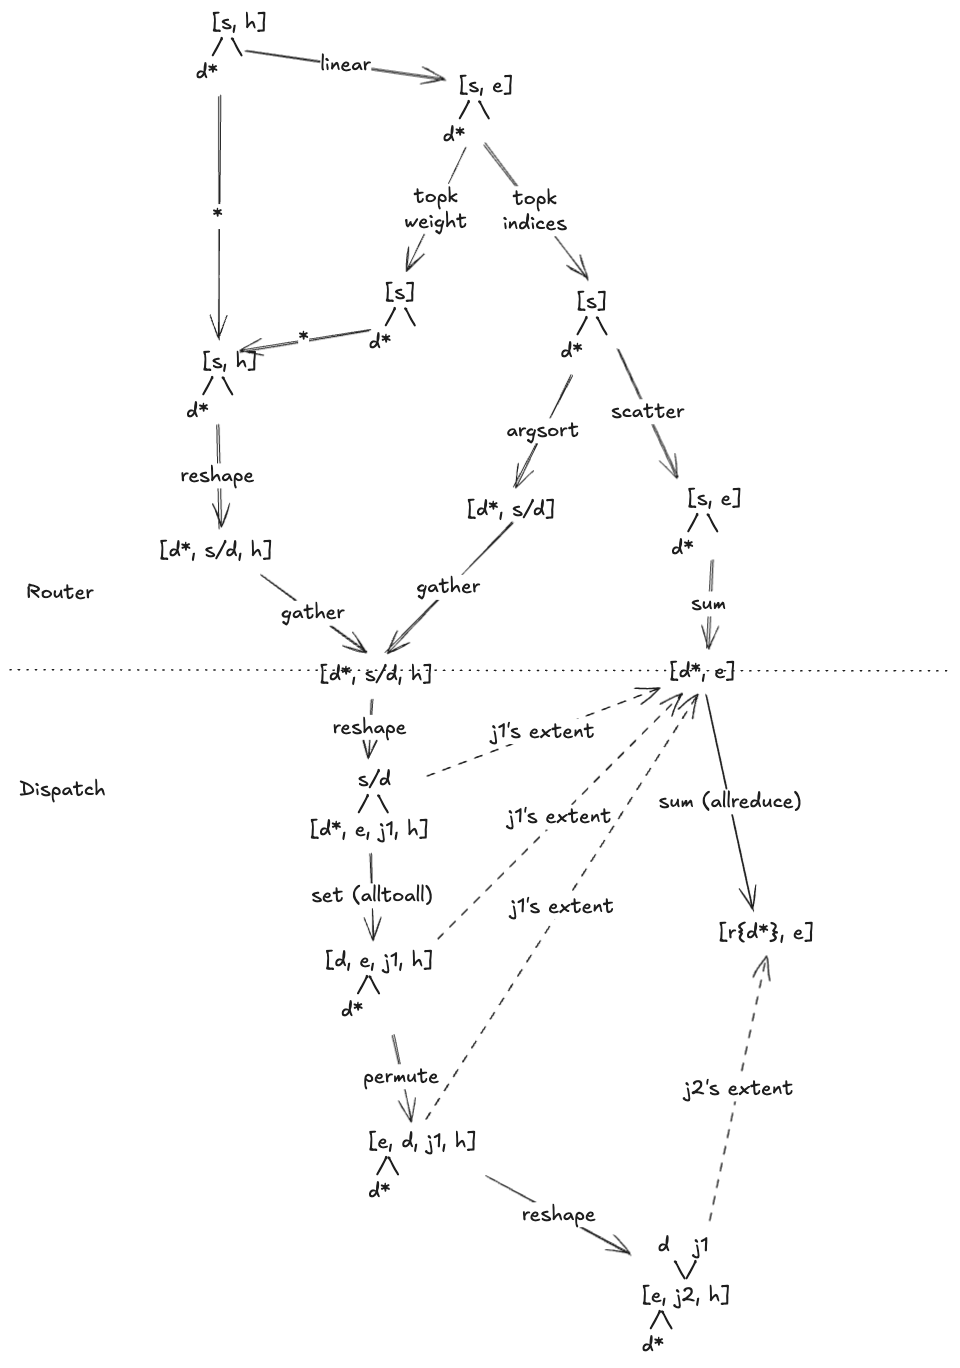
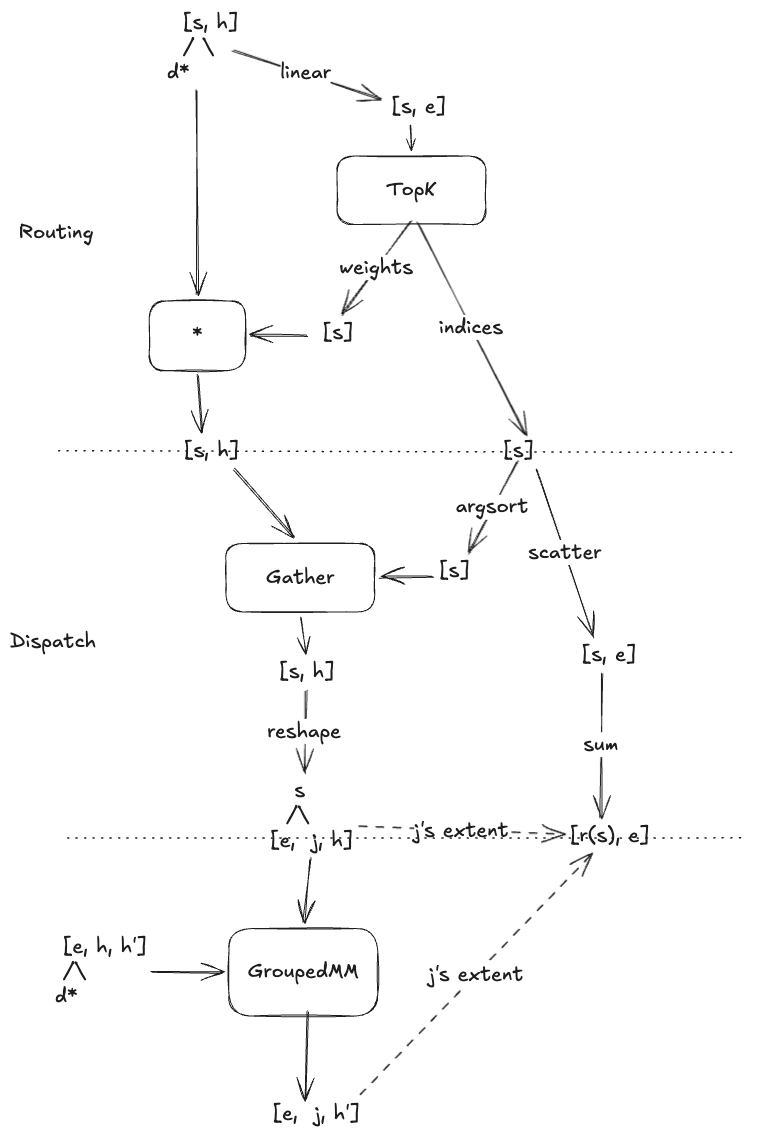
docs: expand multi-GPU DTensor limitations (#6043)
## Summary
- expand the multi-GPU reading doc with a detailed section on
overlapping communication with GEMM
- reorganize and extend the DTensor limitations discussion, including
non-outermost and non-uniform sharding
- add the non-outermost sharding and overlap-iterations figures, and
update the expert-parallelism figure

## Testing
- not run (docs only)

diff --git a/doc/reading/multigpu.md b/doc/reading/multigpu.md
@@ -107,6 +107,12 @@ that schedule across multiple GPUs. This automatically handles sharding and
 communication and therefore removes the need for users to explicitly
 orchestrate communications such as `torch.distributed.all_reduce`.
 
+Note that `DTensor`s are used only as annotations. Internals such as sharding
+propagation and decomposition, which are described later in this document, do
+not use `DTensor`s because they [cannot yet
+represent]((#dtensor-representation-limitations) some shardings that an SPMD
+program needs in practice.
+
 By default, nvFuser strives to generate an efficient schedule automatically.
 For performance-critical workloads, however, users can extend `define_fusion`
 with a (partial) schedule that nvFuser must honor. These are specified through
@@ -212,6 +218,11 @@ and inter-GPU reduction. After decomposition, the fusion IR becomes:
                                        |
                                   [t, h, r{d}]
 ```
+
+Note that the output of the local linear is a 3D tensor, ignoring the reduction
+dimension, which is present only for convenience. The extra `d` dimension comes
+from the `rfactor` operation, first introduced by Halide. It indicates that
+each GPU holds different partial results until they are all-reduced.
 
 This fusion IR then goes through segmentation, (intra-GPU) scheduling, device
 lowering, and host IR lowering. Eventually, the `linear`s and the `gelu` become
@@ -338,24 +349,25 @@ This fusion IR then goes through the rest of the nvFuser stack. The `set`
 becomes a call to `ncclAllGather` and the `sum` becomes a call to
 `ncclReduceScatter`.
 
-### Overlap Communication with GEMM via Decomposition
+### Overlapping Communication with GEMM
 
 [This technique](https://dl.acm.org/doi/10.1145/3567955.3567959) is orthogonal
 and can be applied to different types of parallelism (e.g., sequence, tensor,
 and context parallelism) to cut down latency. Instead of running communication
 operations (e.g., Allgather, ReduceScatter) and computation operations (e.g.,
-GEMM) one after another, it breaks them into smaller pieces and overlaps
+GEMM) one after another, it decomposes them into smaller pieces and overlaps
 communication with computation to reduce wall time.
 
-<img src="multigpu/allgather_matmul_overlap.png" alt="Figure 1" width="600">
+<img src="multigpu/allgather_matmul_overlap.png" alt="Overlap allgather with GEMM" width="600">
 
-> **Figure 1.** Overlap allgather with GEMM[^1]
+> Overlap allgather with GEMM[^1]
 
 [^1]: Wang et al., *Overlap Communication with Dependent Computation via
     Decomposition in Large Deep Learning Models*, ASPLOS 2023.
 https://dl.acm.org/doi/pdf/10.1145/3567955.3567959
 
-There are two types of decomposition:
+There are two types of decomposition, both representable in fusion IR through
+`IterDomain`:
 * Collective-based. A large communication collective is decomposed into collectives of the same nature.
 * Ring-based. A large communication collective is decomposed into circular-shift point-to-point communications.
 
@@ -365,11 +377,26 @@ The tradeoffs are:
 * Ring-based decomposition requires the number of chunks to be a multiple of the number of devices, whereas collective-based decomposition doesn't.
 * Ring-based decomposition supports canonical layouts better.
 
+The following figure shows one way to decompose and overlap all-gather with
+`linear`. Matrix A is sharded row-wise across three GPUs, while B and C are
+sharded column-wise. Instead of all-gathering A up front, which would prevent
+overlap and require a buffer large enough to hold the full A, we decompose the
+all-gather into a sequence of ring-based peer-to-peer communications.
+
+<img src="multigpu/overlap_iterations.png" alt="Overlapping allgather with linear" width="800">
+
+In each iteration after the first, each GPU sends its local shard of A to the
+GPU on its left, that is, `0 -> 2`, `1 -> 0`, and `2 -> 1`.
+
 [This
 test](https://github.com/NVIDIA/Fuser/blob/main/tests/cpp/test_overlap.cpp#L57)
-shows how the fusion IR represents a decomposed allgather with GEMM using
-ring-based scheme. This decomposition allows host IR optimizations to assign
-different loop iterations to different CUDA streams, enabling overlapping.
+shows a `FusionDefinition` that implements the algorithm above. To represent
+this pattern explicitly in fusion IR, we added:
+1. `ParallelType::Stream`, which represents a host-side `for` loop.
+2. `Swizzle`, an `IterDomain` operation that generates an index such as `(loop_iteration + rank) % world_size`.
+
+During host IR optimization, nvFuser assigns different loop iterations to
+different CUDA streams, enabling overlap.
 
 ### Distributed Data Parallelism (DDP)
 
@@ -632,7 +659,7 @@ for i in range(3):
 ```
 
 Similar to [GEMM-communication
-overlap](#overlap-communication-with-gemm-via-decomposition), nvFuser can
+overlap](#overlapping-communication-with-gemm), nvFuser can
 assign different loop iterations to different CUDA streams to enable
 overlapping. I've omitted those details here for brevity.
 
@@ -656,7 +683,89 @@ The figure below shows how Llama 4 MoE is expert-parallelized with the tensor
 list abstraction. For conciseness, it shows only the router and dispatch
 steps.
 
-<img src="multigpu/expert_parallelism.png" alt="Figure 2" width="600">
+<span id="ep-figure"></span>
+<img src="multigpu/expert_parallelism.png" alt="Router and dispatcher in EP MoE" width="600">
+
+## DTensor Representation Limitations
+
+When implementing the parallelism techniques above, we encountered several
+major challenges when writing SPMD programs with `DTensor`. Recall that
+nvFuser adopts a *global SPMD* programming model, similar to XLA's GSPMD, where
+tensor shapes are global and shardings are dictated by schedules.
+
+### Non-outermost Sharding
+
+DTensor assumes shardings are applied outermost. For example, given
+```python
+gt = torch.tensor([0, 1, 2, 3])
+mesh = dist.device_mesh.init_device_mesh("cuda", [2])
+dt = dist.tensor.distribute_tensor(gt, mesh, [Shard(0)])
+```
+`dt` will be `[0, 1]` on GPU 0 and `[2, 3]` on GPU 1.
+
+There's no way to distribute `gt` so GPU 0 gets `[0, 2]` and GPU 1 gets `[1,
+3]` unless we reshape `gt`. However, that would change the logical shape in the
+user program, defeating the benefit of global SPMD.
+
+nvFuser can distinguish the outer and the inner of a split and apply different
+`ParallelType`s on them. Therefore, the former is represented as
+```
+    [4]
+    / \
+   2   2
+(DIDx)
+```
+and the latter as
+```
+    [4]
+    / \
+   2   2
+     (DIDx)
+```
+
+Below is a practical use case from AlphaFold 3. AlphaFold 3 takes large
+activations with two sequence dimensions; the weights, however, are much
+smaller. Therefore,
+[Fold-CP](https://research.nvidia.com/labs/dbr/assets/data/manuscripts/fold_cp.pdf)
+chooses to shard both sequence dimensions and replicate the weight. During the
+backprop of a linear layer, the batch dimension and the two sequence dimensions
+are flattened into one dimension. That dimension gets a non-outermost sharding.
+
+<img src="multigpu/nonoutermost_sharding.png" alt="Non-outermost sharding" width="400">
+
+### Non-uniform Sharding
+
+As shown in [this figure](#ep-figure), in an
+[expert-parallel](#expert-parallelism-ep) MoE layer, the output of the dispatch
+is a 3D tensor of shape `[e, j, h]`, where `e` is the number of experts, `j` is
+the size of a jagged dimension, and `h` is the hidden dimension size. Unlike a
+regular `IterDomain`, whose size is a scalar integer, `j` is a GPU `TensorView`
+that holds the number of tokens per expert.
+
+### Per-GPU Partial Results
+
+This was briefly discussed in [this
+section](#communication-computation-decomposition).
+
+Consider a linear operation between two matrices of shape `[m, k]` and `[n, k]`
+where `k` is the contraction dimension sharded across `d` GPUs. It is computed
+in two steps: a local linear followed by an all-reduce. In global SPMD, the
+result of the local linear should be `[m, n, d]`. By nvFuser convention, `d` is
+placed at the end of the shape, but conceptually its position does not matter
+as long as it exists.
+
+Currently, DTensor handles this using the `Partial` state, which works for
+reductions but does not generalize, for example, to partial sort used in
+[MetaShuffling](https://pytorch.org/blog/metashuffling-accelerating-llama-4-moe-inference/)
+for EP MoE.
+
+### Ring-based Decomposition and Overlapping
+
+This is the pattern illustrated in [the overlap
+section](#overlapping-communication-with-gemm). While some deep learning
+compilers hide such decomposition and overlap decisions from users, we believe
+there is value in letting users express them explicitly before heuristics can
+handle them automatically and optimally.
 
 ## Debugging
 
